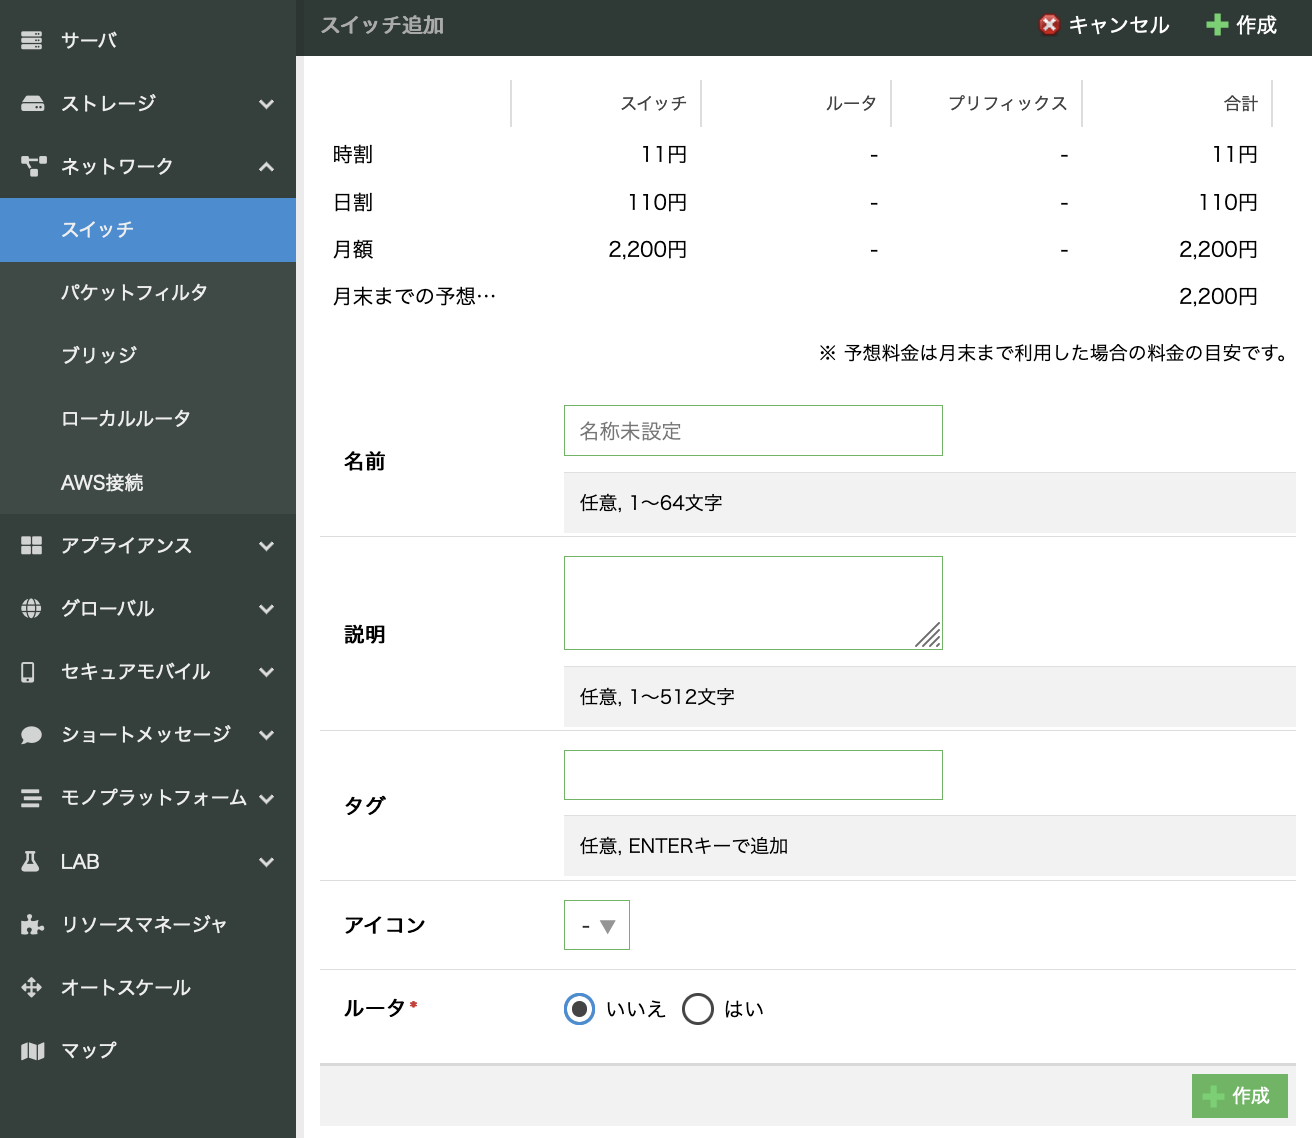
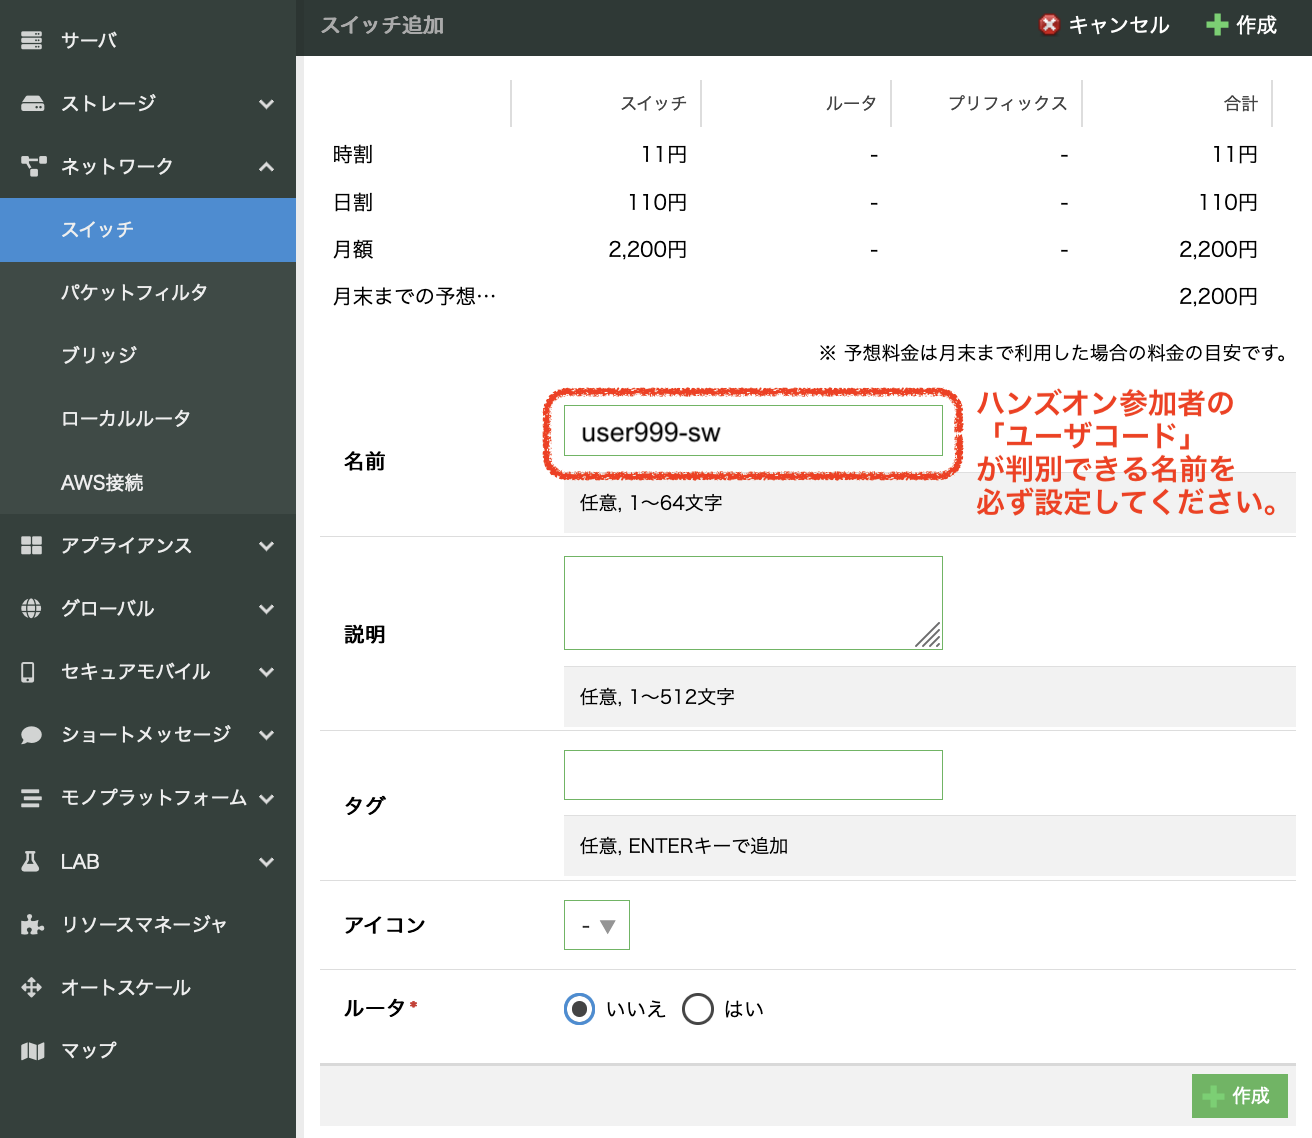
sakuracloud

Changed region(s): [[0.4062, 0.3383, 0.9688, 0.4613]]

diff --git a/Basic-Tutorials/handson202212-vcp/Setup-VCP-Portable.md b/Basic-Tutorials/handson202212-vcp/Setup-VCP-Portable.md
@@ -32,6 +32,7 @@
 
 <img src="./images/sakura-server1.png" width="700px">
 <img src="./images/sakura-server2.png" width="700px">
+<img src="./images/sakura-server3.png" width="550px">
 
 #### サーバプラン
 
@@ -62,14 +63,18 @@
     ssh-keygen -t ed25519
     ```
 
+#### サーバの情報
+
+- 名前: ハンズオン参加者の「ユーザコード」が判別できる名前を必ず設定してください。
+
 ### (3) スイッチの作成
 
 - ローカルネットワーク用のスイッチを1個作成します。
-  * ルータ機能は **不要**
+  * ルータ: 「いいえ」 （ルータ機能は **不要**）
+  * 名前: ハンズオン参加者の「ユーザコード」が判別できる名前を必ず設定してください。
   * スイッチの作成 <https://manual.sakura.ad.jp/cloud/network/switch/router-switch.html>
 
 <img src="./images/sakura-sw.png" height="550px">
-
 
 ### (4) NICの追加、スイッチへの接続
 
@@ -151,7 +156,7 @@ ocs-vcp-portable_nginx_1   nginx -g daemon off;      Up
 ocs-vcp-portable_occtr_1   /usr/bin/supervisord -n   Up           
 ```
 
-- `docker ps` コマンドを実行すると、上記に加えてJupyterNotebookコンテナを含む合計3つのコンテナが起動していることが確認できます。
+- `sudo docker ps` コマンドを実行すると、上記に加えてJupyterNotebookコンテナを含む合計3つのコンテナが起動していることが確認できます。
 
 #### （参考）VCPポータブル版が正常に起動しなかった場合に再構築するには
 
